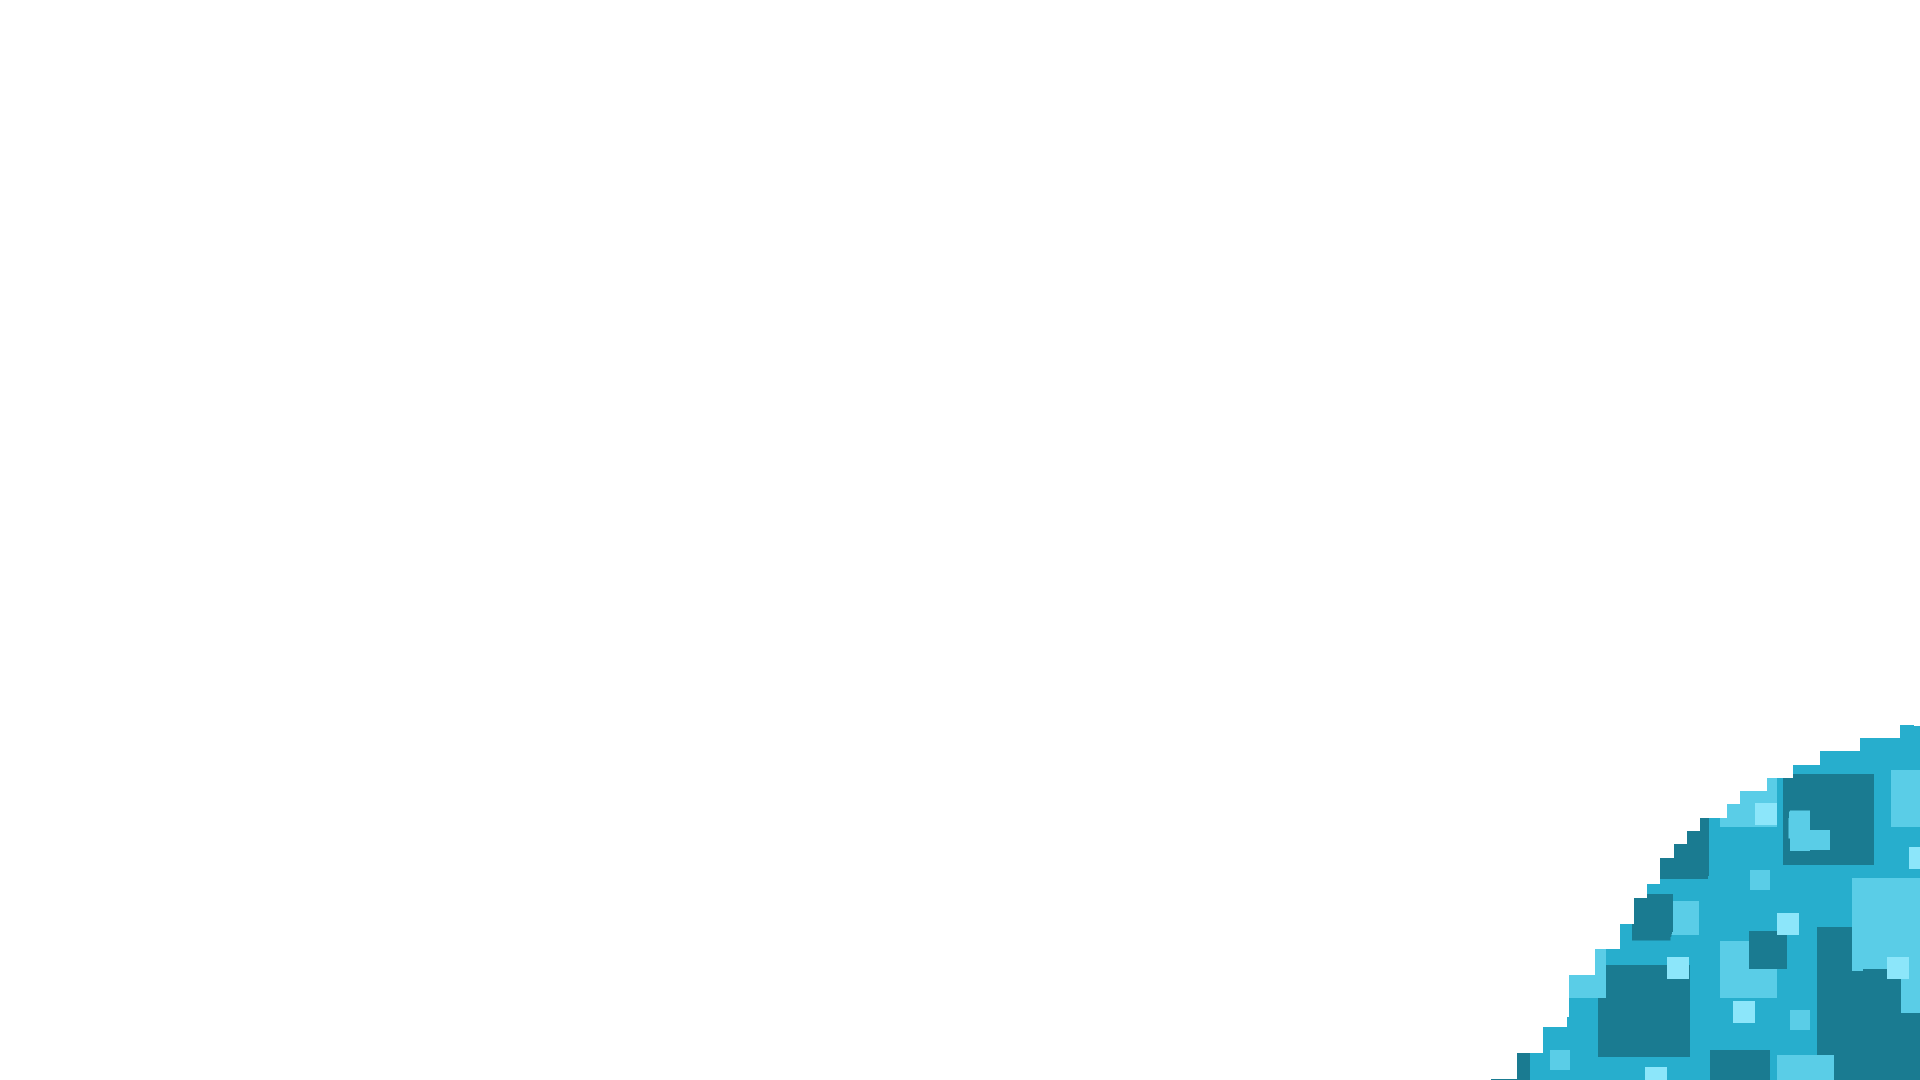
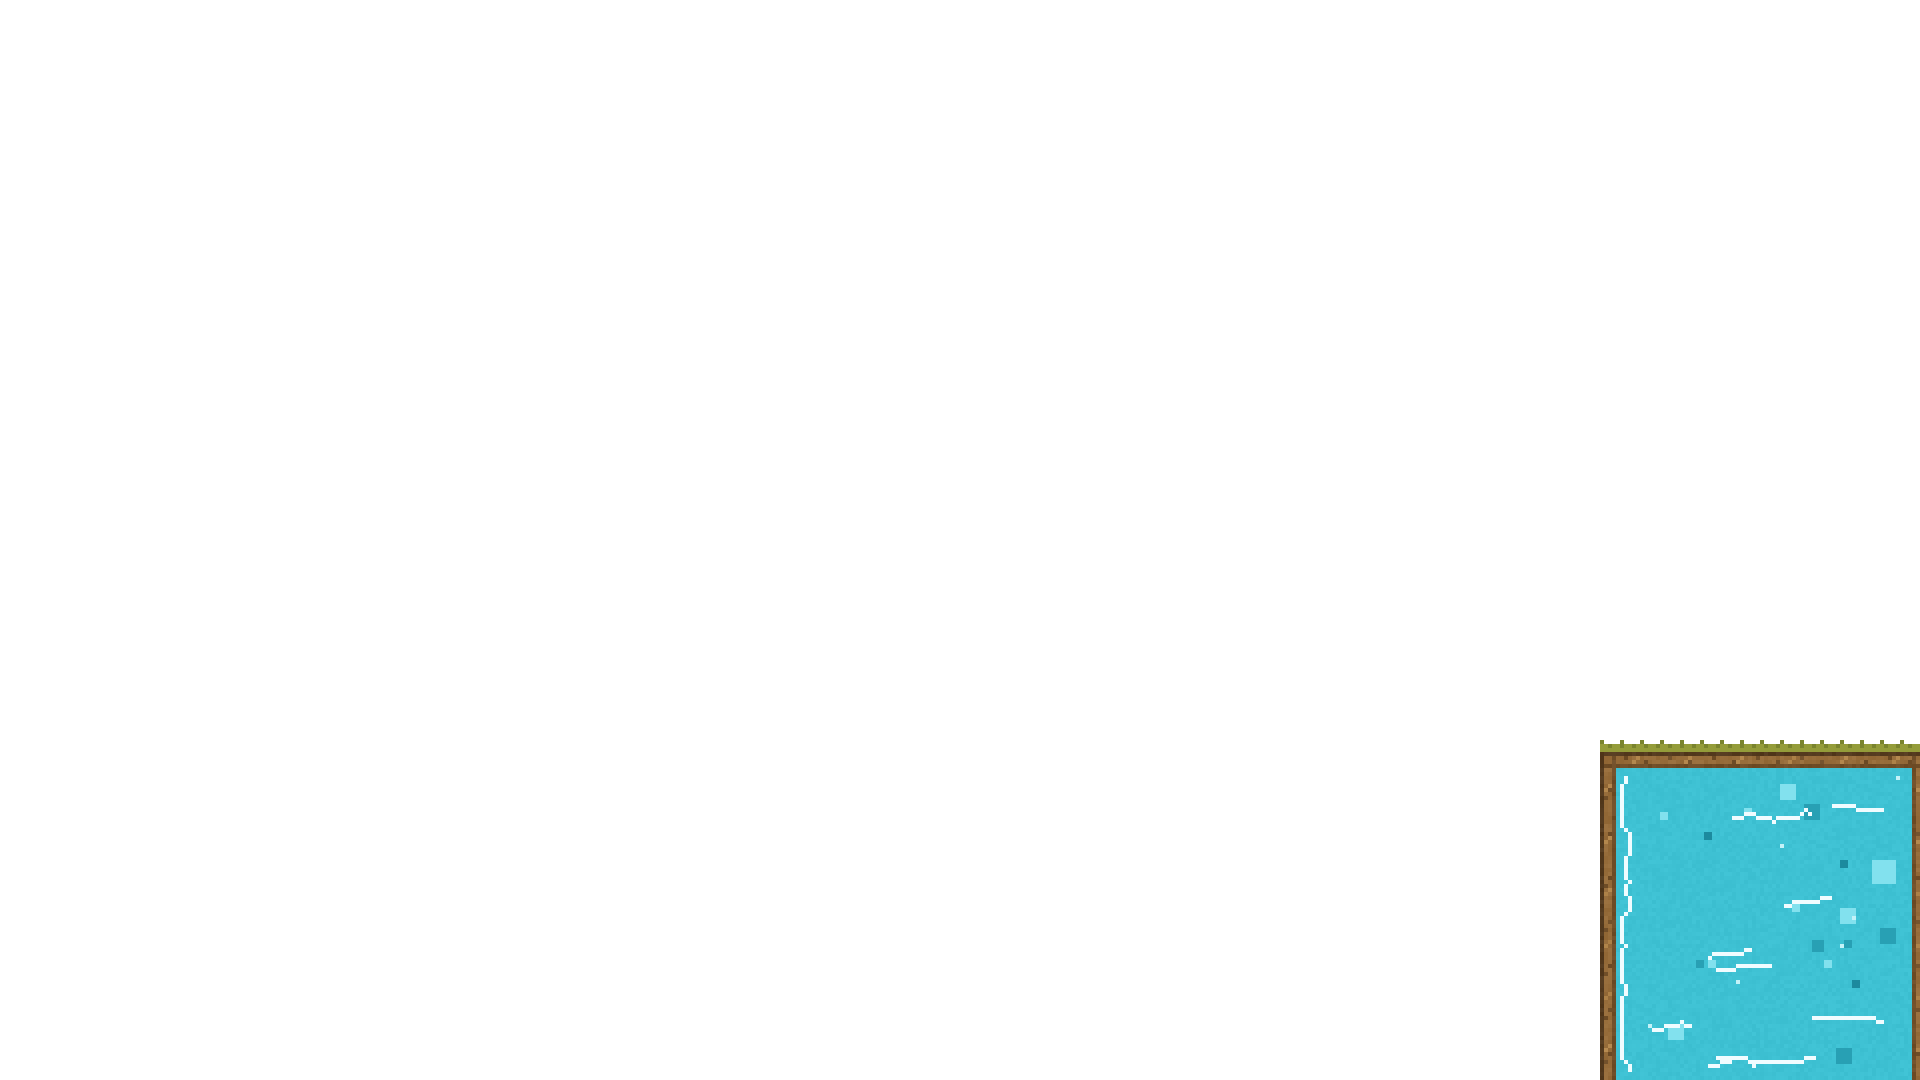
art: reference-style pond + matching collider

Changed region(s): [[0.7812, 0.6722, 1.0, 1.0]]

diff --git a/world.html b/world.html
@@ -211,7 +211,7 @@ const COLLIDERS = [
   // PvP Arena
   { x:1510, y:17,  w:393,  h:337 },
   // Danau
-  { x:1497, y:698, w:355,  h:365 },
+  { x:1600, y:752, w:320,  h:328 },
   // World boundaries
   { x:-50,  y:0,   w:50,   h:WH  },
   { x:WW,   y:0,   w:50,   h:WH  },
@@ -412,7 +412,7 @@ function drawFireflies(t){
   }
 }
 
-const LAKE = { x:1497, y:698, w:355, h:365 };
+const LAKE = { x:1600, y:752, w:320, h:328 };
 const ripples = Array.from({length:12}, () => ({ x:0, y:0, t:Math.random() }));
 function drawLakeShimmer(){
   for (const r of ripples){
